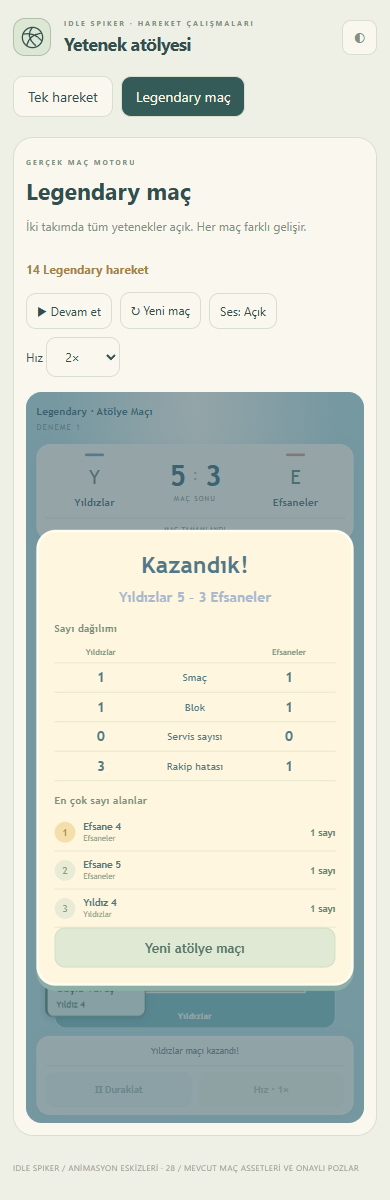
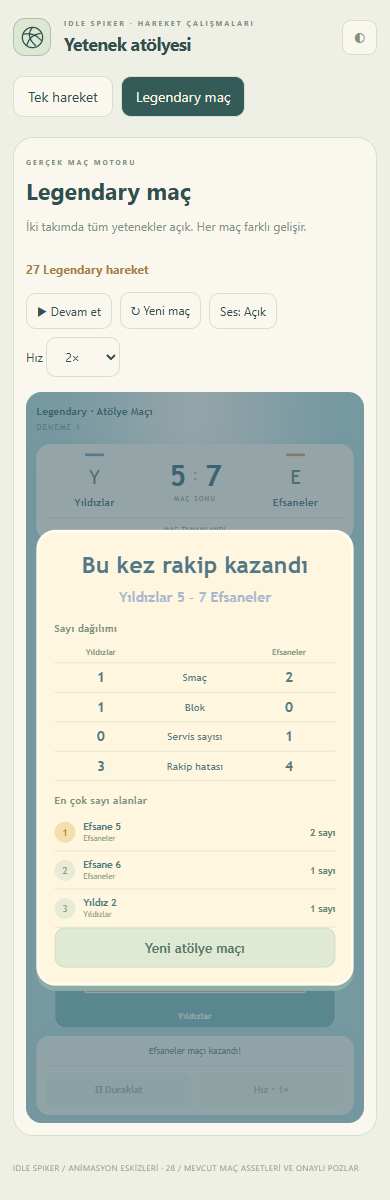
ok

diff --git a/match-skills.js b/match-skills.js
@@ -24,7 +24,8 @@ function canShow(){return enabled&&leagueEnabled()&&!suppressed&&!document.hidde
 function finishFocus(reason='cancelled'){if(focus){const f=focus.flight,progress=f?limit(f.t/Math.max(.001,f.duration)):null;focusEvents.push({id:focus.skill.id,reason,progress,age:focus.age});if(focusEvents.length>40)focusEvents.shift();}focus=null;sound('skill-slow-stop');if(!pendingDive?.heartbeatStarted)sound('heartbeat-stop');}
 function resetEffects(preserveNotices=false){rallyLegendaryCount=0;secondLegendaryAllowed=false;knockbacks.clear();reactionIcons.clear();if(!preserveNotices){currentNotice=null;completedNotices.length=0;clearTimeout(noticeTimer);noticeTimer=null;}attempts.length=0;pancakeHold=null;document.body.classList.remove('skill-blackout');if(impactHold)impactHold.flight.impactFlash=0;impactHold=null;overheadUntil.clear();sound('heartbeat-stop');window.MatchMotion?.reset();window.MatchFrames?.invalidate();active.length=0;trace.length=0;motion.clear();servePlan=null;approachPlan=null;pendingSet=null;pendingAttack=null;pendingBlock=null;pendingSync=null;pendingDive=null;serveLabelUntil=0;currentServe=null;reactions.clear();finishFocus('reset');carry=0;lastBall=null;if(!preserveNotices)label.hidden=true;}
 function owns(actor,id){if(!actor||!window.PlayerSkills)return false;if(actor.team===1&&catalog.get(id)?.rarity==='Legendary'){const unlocked=window.matchInfo?.opponentLegendaryUnlocked??PlayerSkills.teamHasLegendary(players.filter(p=>p.team===0).map(p=>p.roster||{...p.stats,skillCamps:0}),{division:window.matchInfo?.division});if(!unlocked)return false;}const p=actor.roster||{...actor.stats,id:'match-'+actor.team+'-'+actor.index,skillCamps:0};return PlayerSkills.allows(p,id,{division:window.matchInfo?.division});}
-function eligible(ids,actor){return ids.map(id=>catalog.get(id)).filter(s=>s&&owns(typeof actor==='function'?actor(s.id):actor,s.id)&&s.id!==lastSkill&&(s.rarity!=='Legendary'||(clock>=legendaryUntil&&(labShowcase()||rallyLegendaryCount===0||(rallyLegendaryCount===1&&secondLegendaryAllowed)))));}
+function canRallyLegendary(){return labShowcase()||rallyLegendaryCount===0||(rallyLegendaryCount===1&&secondLegendaryAllowed);}
+function eligible(ids,actor){return ids.map(id=>catalog.get(id)).filter(s=>s&&owns(typeof actor==='function'?actor(s.id):actor,s.id)&&s.id!==lastSkill&&(s.rarity!=='Legendary'||(clock>=legendaryUntil&&canRallyLegendary())));}
 function labShowcase(){return window.matchInfo?.animationLab===true&&new URLSearchParams(location.search).get('animationLab')==='legendary';}
 function skillWeight(skill){return weights[skill.rarity]*(labShowcase()?(skill.rarity==='Legendary'?16:.5):1);}
 function pickSkill(ids,actor){const nextSeed=window.matchInfo?.fixtureId||String(window.matchInfo?.round||1);if(seed!==nextSeed){seed=nextSeed;random=MatchRules.seeded('skills-'+seed);}if(!canShow()||!ids.length)return null;const choices=eligible(ids,actor);if(clock<cooldown||random()>(labShowcase()?.96:.60)||!choices.length)return null;let n=random()*choices.reduce((sum,s)=>sum+skillWeight(s),0);for(const s of choices){n-=skillWeight(s);if(n<=0)return s;}return choices.at(-1);}
@@ -48,7 +49,7 @@ function failNotice(effect){if(effect)effect.failed=true;}
 function resolveAttempt(flight){for(const e of attempts)if(!e.failed&&e.flight===flight&&['attack','serve','block'].includes(e.kind))failNotice(e);}
 function creditFlight(effect,flight){if(flight&&effect.skill.rarity==='Legendary')flight.skillCredit={id:effect.skill.id,actor:effect.actor,team:effect.team};}
 function trigger(skill,actor,kind,flight=ball,extra={}){
- if(!skill||!actor||!canShow()||!owns(actor,skill.id))return null;
+ if(!skill||!actor||!canShow()||!owns(actor,skill.id)||(skill.rarity==='Legendary'&&!canRallyLegendary()))return null;
  const effect={skill,actorName:commentaryName(actor),actor:number(actor),team:actor.team,kind,start:clock,contact:clock,until:clock+1.5,flight,...extra};active.push(effect);if(active.length>5)active.shift();lastSkill=skill.id;cooldown=clock+(labShowcase()?.65:1.7);
  if(skill.rarity==='Legendary'){rallyLegendaryCount++;if(rallyLegendaryCount===1&&!labShowcase())secondLegendaryAllowed=random()<.08;legendaryUntil=clock+(labShowcase()?2.2:14);legendaryUsed=true;}
  events.push({id:skill.id,actor:actor.index,role:role(actor),kind,at:clock,team:actor.team});if(events.length>80)events.shift();
@@ -183,7 +184,7 @@ resolveNetContact=function(){
  if(ball.outcome.event==='block-touch'&&attacker&&random()<.3){const wipe=pickSkill(['wipe'],attacker);if(wipe)trigger(wipe,attacker,'attack',before);}
 };
 function distantRescue(p,flight,info,minGap=24){return (info?.distance||0)>=105&&Math.hypot(p.x-flight.targetX,p.y-flight.targetY)>=minGap;}
-function pancakeChoice(p){if(clock<counterUntil[p.team]||!owns(p,'pancake'))return null;return random()<limit(.24+(p.stats?.receive||30)*.0025,.25,.65)?catalog.get('pancake'):null;}
+function pancakeChoice(p){if(!canRallyLegendary()||clock<counterUntil[p.team]||!owns(p,'pancake'))return null;return random()<limit(.24+(p.stats?.receive||30)*.0025,.25,.65)?catalog.get('pancake'):null;}
 function planMovement(){
  if(!canShow()||ball.state!=='flight')return;const target=ball.target,remaining=Math.max(0,ball.duration-ball.t),info=incoming.get(ball);
  const legendary=active.find(e=>e.flight===ball&&e.team!==target.team&&e.skill.rarity==='Legendary'&&['serve','attack','set'].includes(e.kind));

diff --git a/mac.html b/mac.html
@@ -256,4 +256,4 @@ $('practiceServe').onclick=()=>{if(!ready)return;if(!manualControl)startManual()
 function matchSound(action,data={}){if(typeof window==='undefined')return;if(window.parent!==window)window.parent.postMessage({type:'spiker-audio',action,...data},'*');else if(window.GameAudio){if(action==='hit')GameAudio.hit(data.kind);if(action==='point')GameAudio.point(data.big);if(action==='cue')GameAudio.cue(data.kind);if(action==='finish')GameAudio.finish();if(action==='pause')GameAudio.setPaused(data.value)}}
 let audioPaused=false;
 init();
-</script><script>for(const event of ['pointerdown','keydown'])document.addEventListener(event,()=>{try{if(parent!==window)parent.GameAudio?.unlock()}catch{}matchSound('unlock')});</script><div id="matchResult" hidden><strong id="resultTitle"></strong><p id="resultScore"></p><button id="resultContinue">Kulübe dön</button></div><script src="number-ui.js?v=a24b5930e991"></script><script src="match-presentation.js?v=009c71ae9f2f"></script><script src="player-skills.js?v=7ec2f157a9dc"></script><script src="match-roster.js?v=ca3a1f1fbf96"></script><script src="match-pose-data.js?v=35f85aefb243"></script><script src="match-motion.js?v=6a02fc4328b5"></script><script src="reaction-art.js?v=a4e9f750d7df"></script><script src="match-skills.js?v=5c71b1d64e60"></script><script src="match-mobile.js?v=2452327b2689"></script><script src="match-frames.js?v=3321f0d75027"></script><script src="match-lab-demo.js?v=6869ac28a61e"></script><script src="player-body-motion.js?v=3759118e2b1d"></script></body></html>
+</script><script>for(const event of ['pointerdown','keydown'])document.addEventListener(event,()=>{try{if(parent!==window)parent.GameAudio?.unlock()}catch{}matchSound('unlock')});</script><div id="matchResult" hidden><strong id="resultTitle"></strong><p id="resultScore"></p><button id="resultContinue">Kulübe dön</button></div><script src="number-ui.js?v=a24b5930e991"></script><script src="match-presentation.js?v=009c71ae9f2f"></script><script src="player-skills.js?v=7ec2f157a9dc"></script><script src="match-roster.js?v=ca3a1f1fbf96"></script><script src="match-pose-data.js?v=35f85aefb243"></script><script src="match-motion.js?v=6a02fc4328b5"></script><script src="reaction-art.js?v=a4e9f750d7df"></script><script src="match-skills.js?v=29db7725a6b0"></script><script src="match-mobile.js?v=2452327b2689"></script><script src="match-frames.js?v=3321f0d75027"></script><script src="match-lab-demo.js?v=6869ac28a61e"></script><script src="player-body-motion.js?v=3759118e2b1d"></script></body></html>
